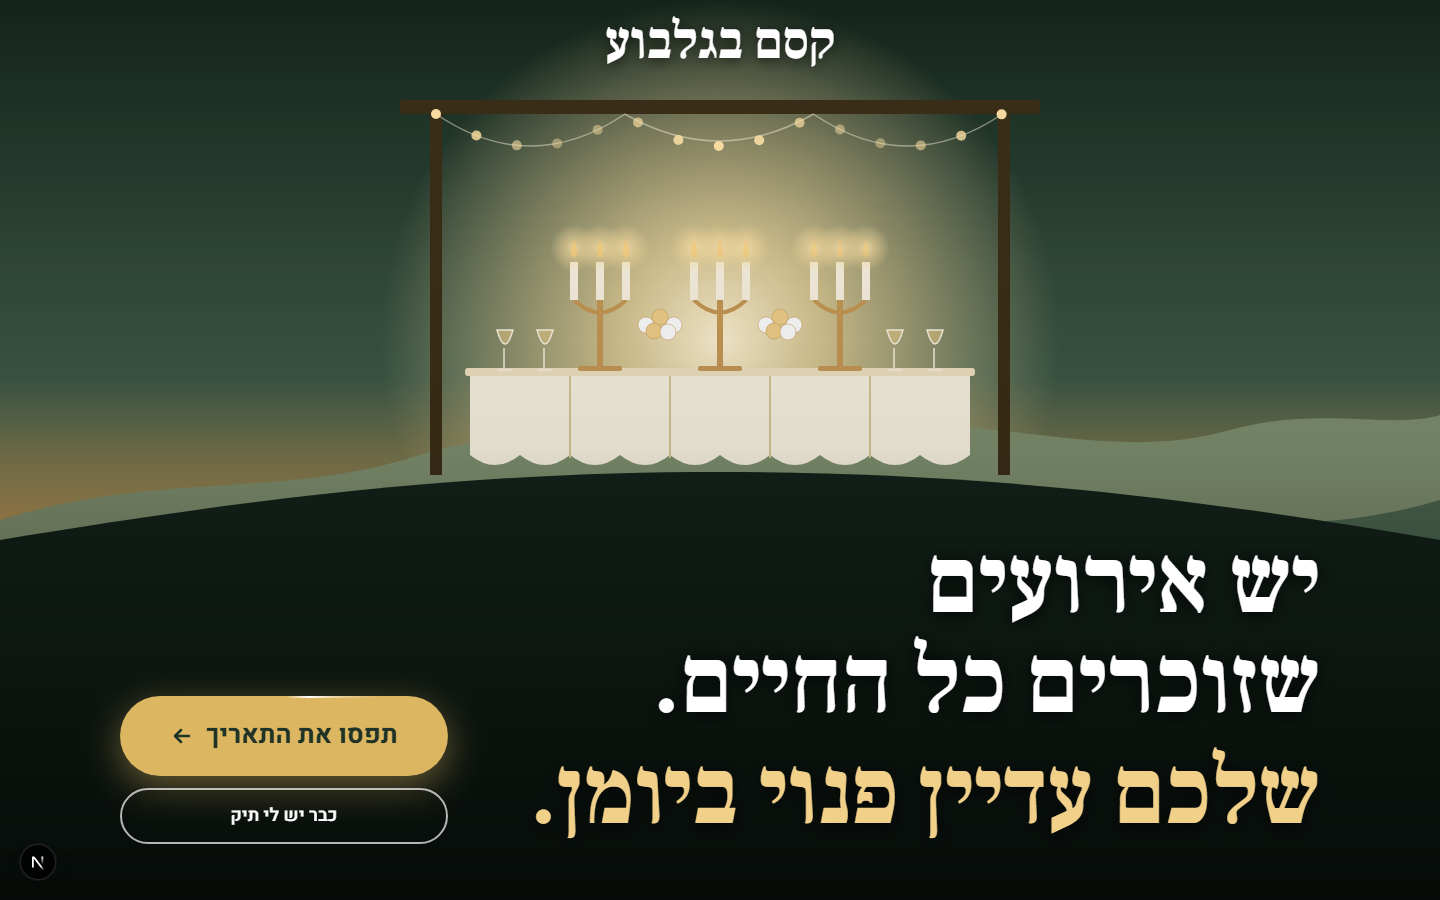
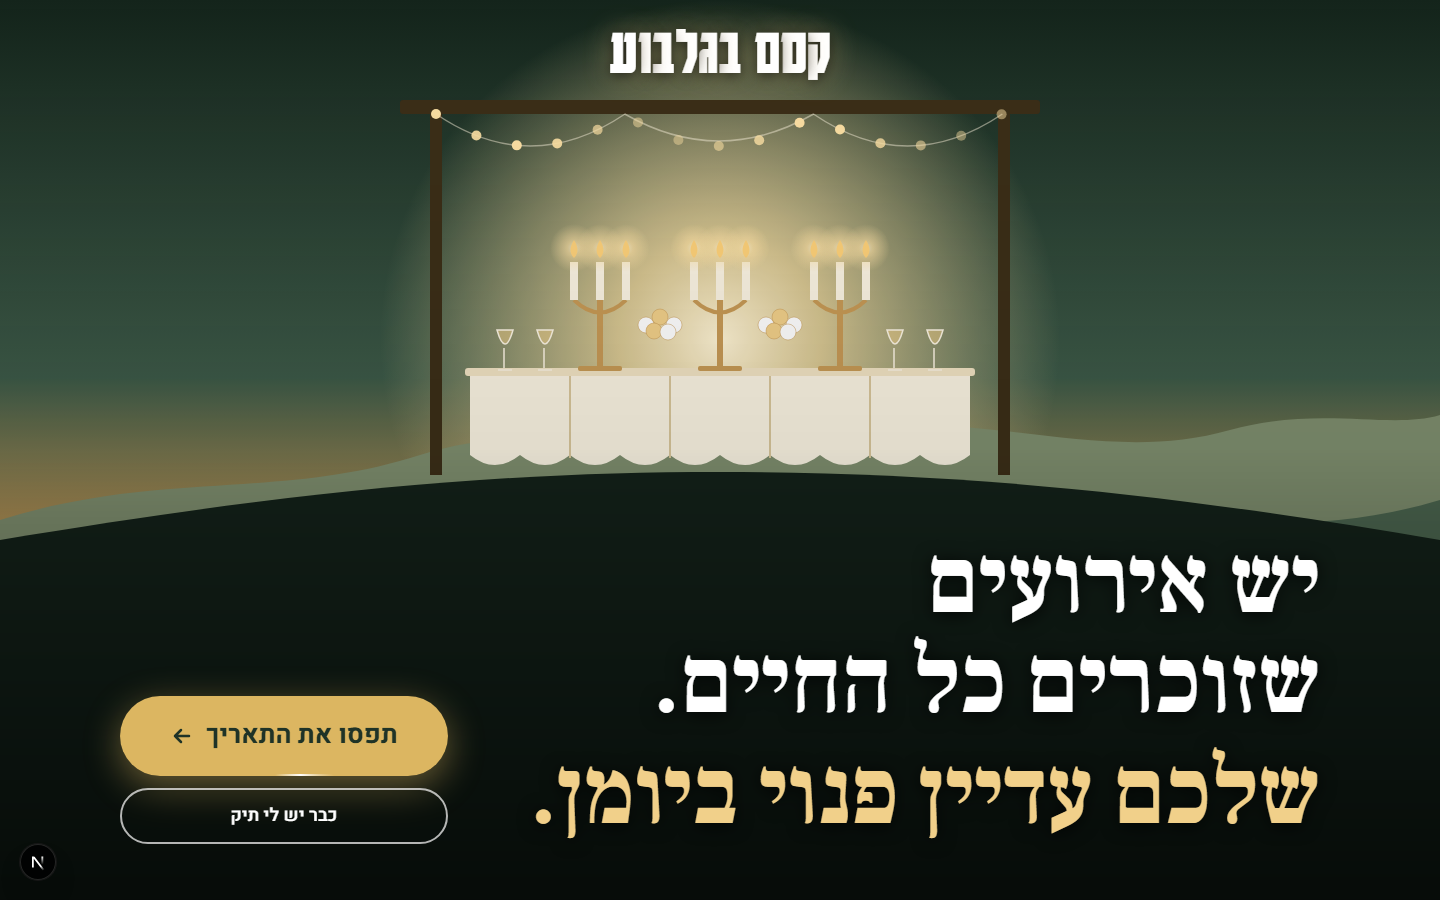
שם האולם בדף הנחיתה בגופן Karantina, עם כניסה של אות אחר אות
- הגופן מ-Google Fonts עם תמיכה בעברית. האפקט בהשראת Reveal Text מ-21st.dev
- האנימציה נכבית כשהמשתמש ביקש להפחית תנועה
- צילומי מסך של ארבעת הגופנים שנבחנו

Changed region(s): [[0.4062, 0.0311, 0.5938, 0.0933]]

diff --git a/src/components/landing/landing.tsx b/src/components/landing/landing.tsx
@@ -3,7 +3,12 @@
 import Link from "next/link";
 import { homeFor } from "@/lib/auth";
 import type { Profile } from "@/lib/types";
+import { Karantina } from "next/font/google";
 import { TableScene } from "./scenes";
+
+// הגופן של שם האולם: Karantina, צר ודרמטי כמו שלט. מ-Google Fonts עם תמיכה בעברית
+const karantina = Karantina({ subsets: ["hebrew"], weight: "700" });
+const BRAND = "קסם בגלבוע";
 
 export function Landing({ profile }: { profile: Profile | null }) {
   // אורח נרשם או מתחבר. משתמש מחובר ממשיך להזמנה או לאזור שלו
@@ -18,9 +23,23 @@ export function Landing({ profile }: { profile: Profile | null }) {
       {/* בנייד הכותרת עולה גבוה יותר על האיור, ולכן השכבה שם חזקה יותר */}
       <div aria-hidden className="absolute inset-0 bg-gradient-to-t from-black/85 via-black/45 to-transparent lg:from-black/65 lg:via-black/10" />
       {/* שם האולם, במרכז ומעל הפרגולה והאורות. גובה השורה נשמר נמוך כדי שלא יגיע אל קורת הפרגולה */}
-      <nav className="relative pt-4 text-center md:pt-4">
-        <Link href="/" className="font-display text-4xl font-bold leading-none text-white [text-shadow:0_2px_14px_rgb(0_0_0/0.7)] md:text-[3.25rem]">
-          קסם בגלבוע
+      <nav className="relative pt-4 text-center">
+        <Link
+          href="/"
+          aria-label={BRAND}
+          className={`inline-block leading-none text-white [text-shadow:0_2px_14px_rgb(0_0_0/0.7),0_0_28px_rgb(241_208_138/0.45)] ${karantina.className} text-[3rem] md:text-[4.2rem]`}
+        >
+          {/* כל אות נכנסת בנפרד, בהשראת Reveal Text של isaiahbjork ב-21st.dev. בעברית מותר לפצל לאותיות,
+              כי אין חיבורים בין אותיות כמו בערבית. קורא מסך מקבל את השם השלם מ-aria-label */}
+          {Array.from(BRAND).map((ch, i) =>
+            ch === " " ? (
+              " "
+            ) : (
+              <span key={i} aria-hidden className="brand-letter" style={{ animationDelay: `${i * 70}ms` }}>
+                {ch}
+              </span>
+            ),
+          )}
         </Link>
       </nav>
       <div className="relative mx-auto mt-auto flex w-full max-w-7xl flex-col gap-8 px-5 pb-10 md:px-10 md:pb-14 lg:flex-row lg:items-end lg:justify-between">

diff --git a/src/app/globals.css b/src/app/globals.css
@@ -142,9 +142,23 @@ body {
   }
 }
 
+/* שם האולם בדף הנחיתה: כל אות עולה מטשטוש למקומה, אחת אחרי השנייה (העיכוב נקבע לכל אות בקוד) */
+.brand-letter {
+  display: inline-block;
+  animation: brand-letter 0.7s cubic-bezier(0.22, 1, 0.36, 1) both;
+}
+@keyframes brand-letter {
+  from {
+    opacity: 0;
+    transform: translateY(0.35em);
+    filter: blur(6px);
+  }
+}
+
 @media (prefers-reduced-motion: reduce) {
   .cta-shiny,
-  .string-light {
+  .string-light,
+  .brand-letter {
     animation: none;
   }
   .cta-shiny::after {

diff --git a/progress/2026-11-07-2258-brand-font-options.md b/progress/2026-11-07-2258-brand-font-options.md
@@ -1,0 +1,45 @@
+# גופן לשם האולם בדף הנחיתה
+
+- **תאריך ושעה:** 2026-11-07 22:58
+- **סוכן:** Claude Code
+- **סטטוס:** הושלמה
+
+## הבקשה
+«תן לי פונט מעניין לקסם בגלבוע תשתמש ב 21st»
+
+## פירוש והנחות
+- הגופן מיועד לשם «קסם בגלבוע» בראש דף הנחיתה, ולא לכותרת הגדולה או לשאר האתר.
+- ב-21st אין גופנים, רק רכיבי ממשק, וחיפוש של ערכות עיצוב מתאימות החזיר תוצאה ריקה. לכן הגופן מגיע מ-Google Fonts עם תמיכה בעברית, ומ-21st נלקח אפקט: כניסה של אות אחר אות בהשראת Reveal Text של isaiahbjork. בלי הקוד שלו, כי מכסת השליפות היומית נוצלה.
+- 4 גופנים להשוואה, באותו דף ובאותו אפקט. העבודה ממשיכה בענף `landing-table`.
+
+## דרישה לבדיקה
+- כל גופן נפתח ב-`/preview/<font>`, ושם האולם נשאר מעל קורת הפרגולה ב-1366×768 וב-390×844.
+- כשהמשתמש ביקש להפחית תנועה, השם מוצג בלי אנימציה.
+
+## החלטות
+- 4 גופנים עם תמיכה בעברית, שונים זה מזה באופי: Bellefair (סריף קלאסי ודק), Suez One (סריף עבה וחגיגי), Amatic SC (כתב יד), Karantina (צר ודרמטי).
+- לכל גופן גודל משלו (`brand-fonts.ts`), כדי שכולם ייראו בערך באותו משקל ויישארו מעל קורת הפרגולה.
+- שם האולם מפוצל לאותיות שנכנסות אחת אחרי השנייה. קורא מסך מקבל את השם השלם מ-`aria-label`.
+
+## מסכים
+- `docs/screenshots/brand-fonts/<font>-desktop.png`: כל גופן ב-1366×768.
+- `docs/screenshots/brand-fonts/all-fonts-mobile.png`: ארבעתם ב-390×844, כשהדפדפן מוגדר להפחית תנועה (כך נבדק גם המצב בלי אנימציה).
+
+## תוצרים
+`npm run dev` ואז `/preview/bellefair`, `/preview/suez`, `/preview/amatic` ו-`/preview/karantina`. הדף הראשי `/` משתמש בינתיים ב-Bellefair. `tsc` עבר, וכל הנתיבים מחזירים 200.
+
+## קבצים שנגעו בהם
+- `src/components/landing/brand-fonts.ts`: חדש. 4 הגופנים והגדלים שלהם.
+- `src/components/landing/landing.tsx`: שם האולם בגופן שנבחר ובאנימציה.
+- `src/app/preview/[font]/page.tsx`: נתיב תצוגה זמני.
+- `src/app/globals.css`: אנימציית האותיות.
+- `docs/screenshots/brand-fonts/*.png`: צילומי המסך.
+
+## מה נשאר
+בחירת גופן. אחר כך: לקבוע אותו, להסיר את שאר הגופנים ואת `/preview`, ולעשות קומיט לענף `landing-table` אם יתבקש.
+
+## עדכון: נבחר Karantina (2026-11-07)
+- המבקש: «כן תשתמש ב karantina». הגופן מוגדר ישירות ב-`landing.tsx`. `brand-fonts.ts` ו-`/preview` נמחקו, וצילומי שאר הגופנים נשארו ב-`docs/screenshots/brand-fonts/`.
+- `docs/screenshots/landing-table-desktop.png` עודכן לדף הסופי.
+- נבדק: `tsc`, `npm test` ו-`npm run build`. בדף `/` מופיעים השם עם `aria-label`, הכותרת והקישורים.
+- קומיט ופוש לענף `landing-table`. עדיין לא מוזג ל-`main`, ולכן לא באתר החי.
